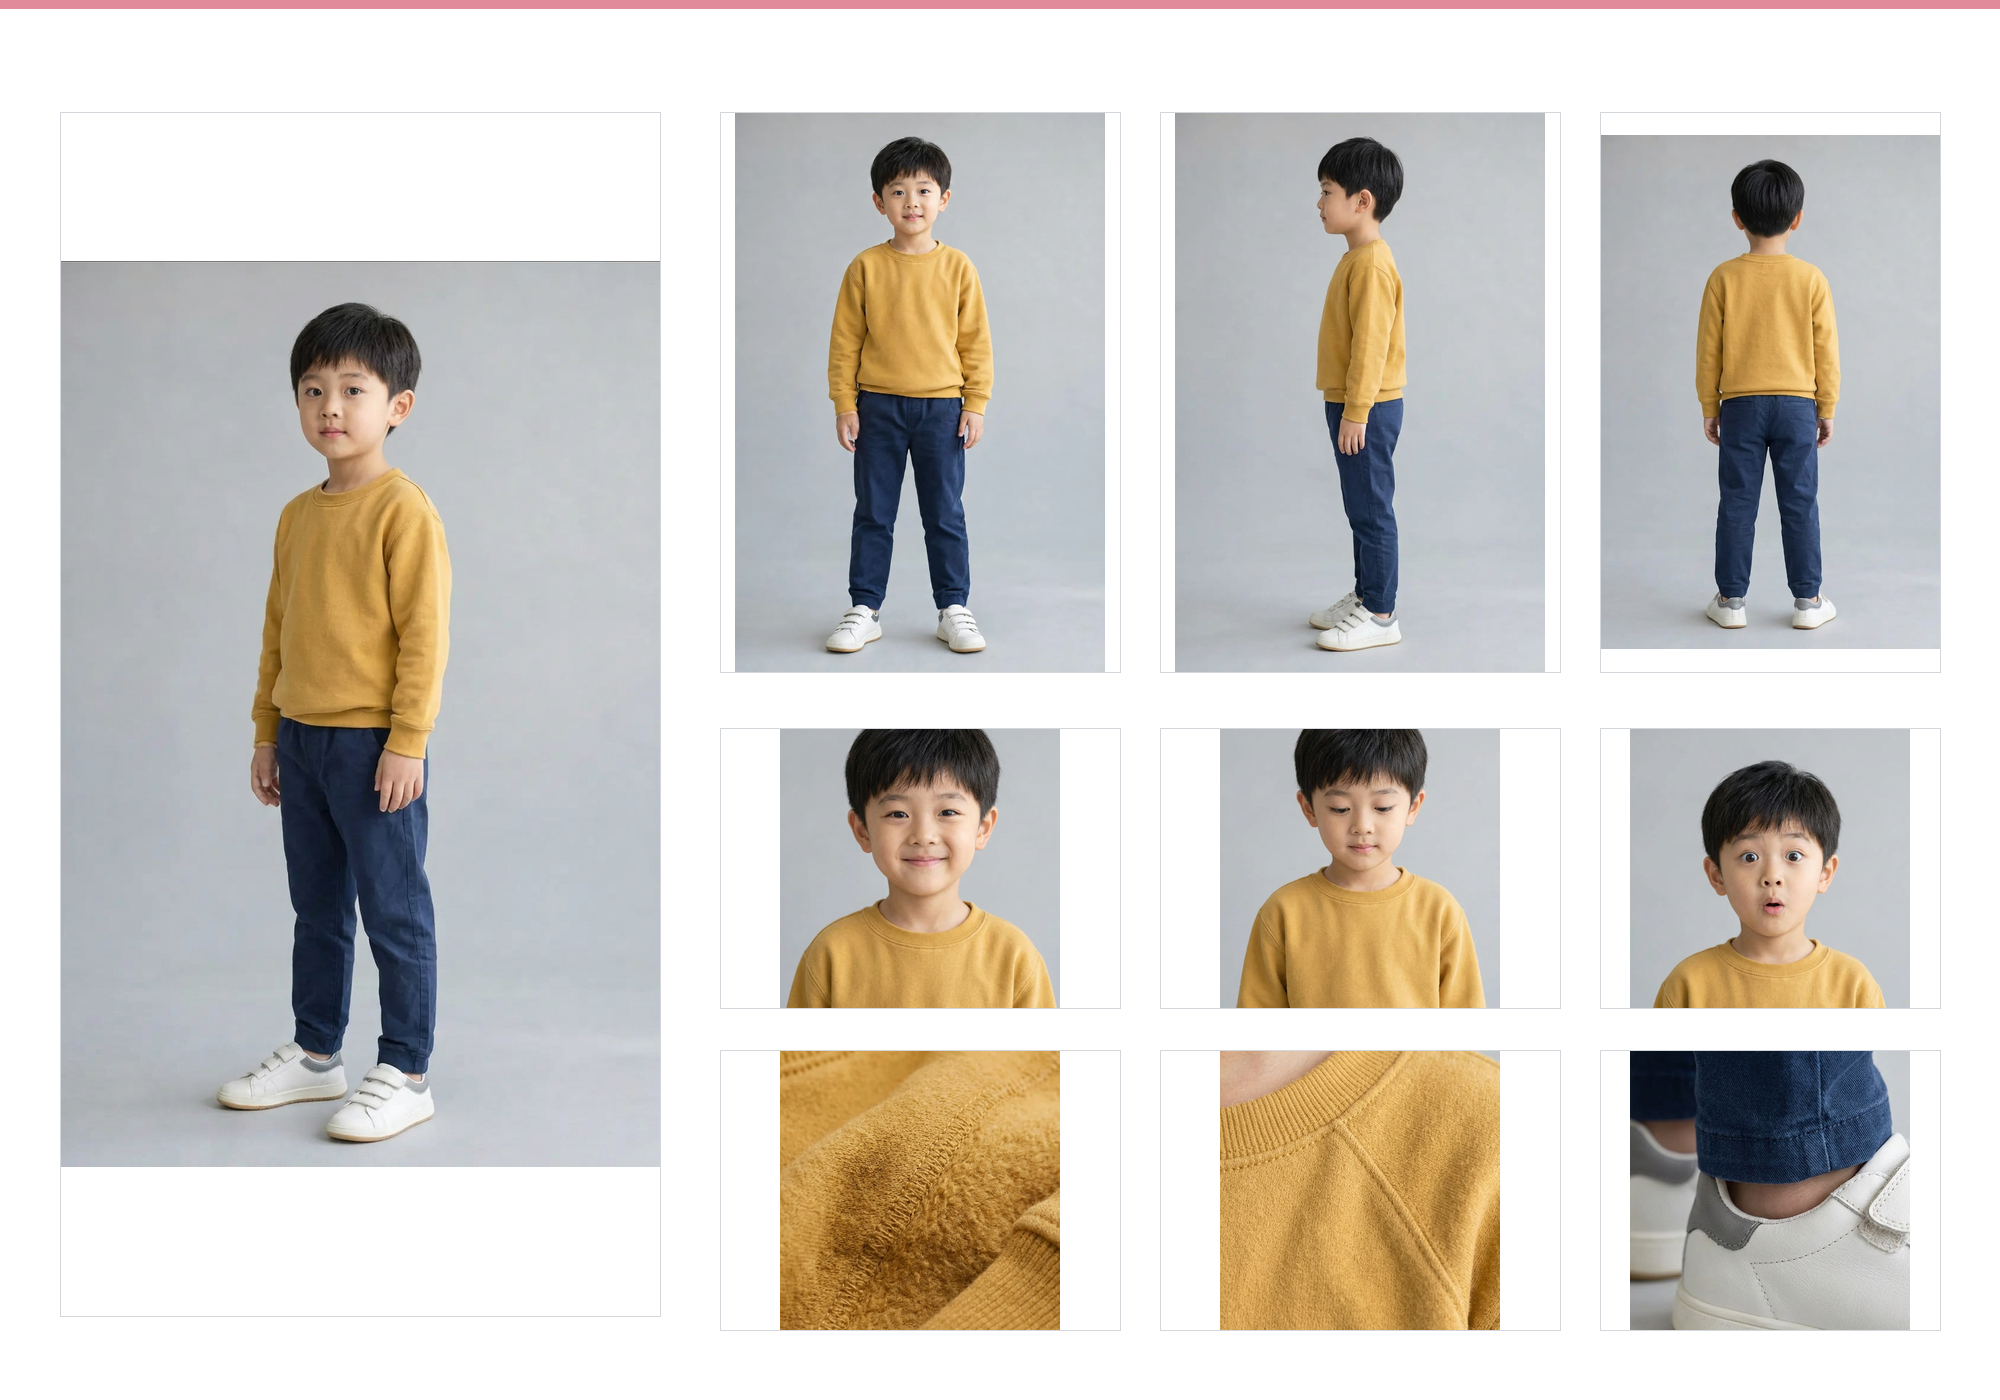
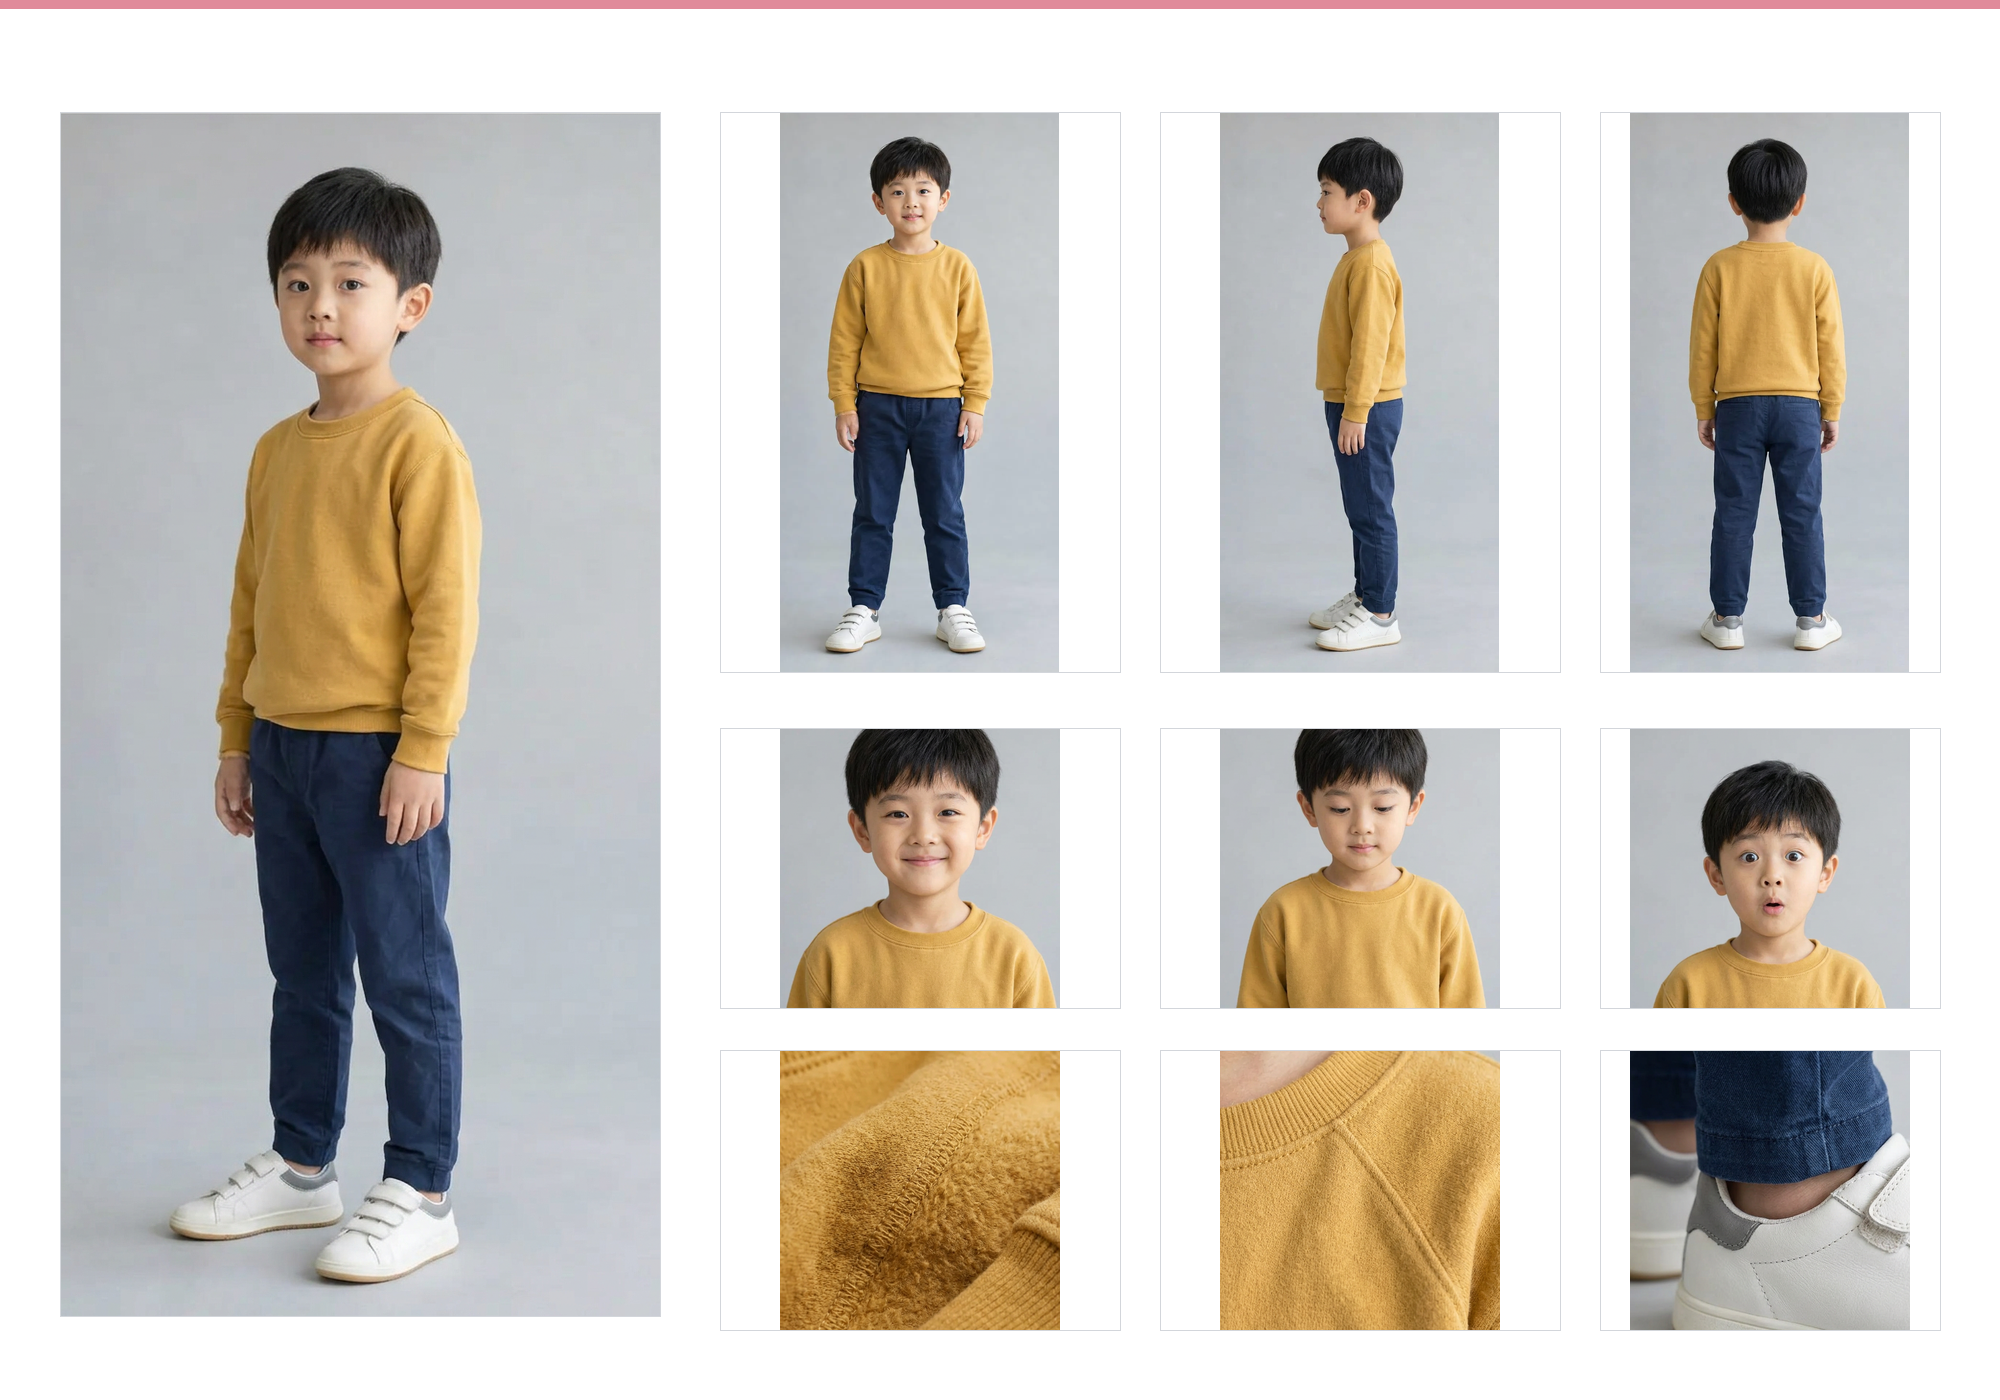
feat(multiview): 十四格·全图鉴整卡，补齐蹙眉表情与眼部微距素材

diff --git a/outputs/multiview/build_cards.py b/outputs/multiview/build_cards.py
@@ -52,6 +52,20 @@ def _trim_dark_border(image: Image.Image, max_px: int = 10, threshold: float = 4
     return image
 
 
+def crop_sides_to(image: Image.Image, aspect: float, min_keep: float = 0.6) -> Image.Image:
+    """只裁两侧背景、绝不动上下：素材比画格更“高”时，用它把两侧多余背景裁掉，
+    这样全身和头像在画格里能占满，同时头顶鞋底依然完整。"""
+    width, height = image.size
+    current = width / height
+    if aspect >= current:
+        return image
+    target_w = int(round(height * aspect))
+    if target_w < width * min_keep:  # 裁太多会切到人，宁可有留白
+        return image
+    left = (width - target_w) // 2
+    return image.crop((left, 0, left + target_w, height))
+
+
 def load(name: str) -> Image.Image:
     return _trim_dark_border(Image.open(VIEWS / name).convert("RGB"))
 
@@ -67,6 +81,8 @@ thinking = load("07_expression_thinking.png")
 surprised = load("08_expression_surprised.png")
 shoes = load("09_detail_shoes.png")
 collar = load("10_detail_collar.png")
+serious = load("11_expression_serious.png")
+eye = load("12_detail_eye.png")
 
 CELL = 512
 
@@ -89,39 +105,47 @@ def grid(rows: int, cols: int, slots: dict[tuple[int, int], Image.Image], fallba
     return sheet
 
 
-# 表情：2×3 → 下标 1=微笑、4=惊讶、5=沉思（其余格用平静头像占位，模板里不取用）
+# 表情素材表 2×3（行优先）：下标 1=微笑、2=蹙眉清冷、4=惊讶、5=沉思
 expression_sheet = grid(
     2,
     3,
-    {(0, 1): smile, (1, 1): surprised, (1, 2): thinking},
+    {(0, 1): smile, (0, 2): serious, (1, 1): surprised, (1, 2): thinking},
     fallback=headshot,
 )
 
-# 细节：3×3 → 下标 2=面料、4=鞋履、5=领口；细节格是横向画格，先裁成横构图再铺
-detail_sheet = grid(
-    3,
-    3,
-    {(0, 2): fabric, (1, 1): shoes, (1, 2): collar},
-    fallback=fabric,
-    crop=(CELL * 3 // 2, CELL),
-)
+# 细节素材表 3×3（行优先）：下标 0=眼部、2=面料、4=鞋履、5=领口
+DETAIL_SLOTS = {(0, 0): eye, (0, 2): fabric, (1, 1): shoes, (1, 2): collar}
+# 十格·设定集的细节格是横向画格，先裁横构图；十四格·全图鉴的细节格偏竖，用方图
+detail_sheet_wide = grid(3, 3, DETAIL_SLOTS, fallback=fabric, crop=(CELL * 3 // 2, CELL))
+detail_sheet_square = grid(3, 3, DETAIL_SLOTS, fallback=fabric)
+
+# 每个卡版画格比例不同：素材比画格“更高”时先裁掉两侧背景，画格里就不会大片留白。
+# 键是 (全身/主角, 头像) 的目标比例；None 表示不裁。
+ASPECT_PREP = {
+    "xianxia_ref": (0.125 * 2200 / (0.42 * 1300), 0.15 * 2200 / (0.43 * 1300)),
+    "school_ref": (0.3 * 2000 / (0.86 * 1400), None),  # 这一版只有主立绘格偏窄
+}
 
 TARGETS = [
-    ("school_ref", "card_school_ref.png", "十格·设定集"),
-    ("head_body_6", "card_head_body_6.png", "六格·三视图"),
-    ("fiveref", "card_fiveref.png", "五格·正反"),
+    ("xianxia_ref", "card_xianxia_ref.png", "十四格·全图鉴", "square"),
+    ("school_ref", "card_school_ref.png", "十格·设定集", "wide"),
+    ("head_body_6", "card_head_body_6.png", "六格·三视图", "wide"),
+    ("fiveref", "card_fiveref.png", "五格·正反", "wide"),
 ]
 
 reports: dict[str, dict] = {}
-for template_id, filename, label in TARGETS:
+for template_id, filename, label, detail_mode in TARGETS:
+    detail_sheet = detail_sheet_wide if detail_mode == "wide" else detail_sheet_square
+    body_aspect, head_aspect = ASPECT_PREP.get(template_id, (None, None))
+    prep = (lambda img, a: crop_sides_to(img, a) if a else img)
     template = copy.deepcopy(get_template(template_id))
     canvas, _assets, report = compose_role_card(
-        full_front=front,
-        full_profile=side,
-        full_back=back,
-        action_a=three_quarter,  # school_ref 的主立绘也走 action_a，用斜侧全身当主视觉
-        action_b=three_quarter,
-        headshot=headshot,
+        full_front=prep(front, body_aspect),
+        full_profile=prep(side, body_aspect),
+        full_back=prep(back, body_aspect),
+        action_a=prep(three_quarter, body_aspect),  # school_ref 的主立绘也走 action_a，用斜侧全身当主视觉
+        action_b=prep(three_quarter, body_aspect),
+        headshot=prep(headshot, head_aspect),
         expression_sheet=expression_sheet,
         detail_sheet=detail_sheet,
         template=template,

diff --git a/outputs/multiview/README.md b/outputs/multiview/README.md
@@ -2,43 +2,46 @@
 
 用本仓库的卡版数据（`templates.py`）+ 资产排版器（`asset_composer.py`）跑了一遍
 “一张参考图 → 多视图 → 一张角色卡”的流水线。模型侧的出图由 Arena 的图像模型完成
-（仓库原本是交给 ComfyUI 里的 Qwen-Image 2.1 出图，流程、画格比例、取用规则完全一致）。
+（仓库原本是交给 ComfyUI 里的 Qwen-Image 2.1 出图，流程、画格比例、取用规则一致）。
 
-## 主交付：`card_school_ref.png`（十格·设定集，2000×1400）
+## 主交付：`card_xianxia_ref.png`（十四格·全图鉴，2200×1300）
 
-一张卡装完：左侧主立绘，右侧上排三视图全身、中排三表情、下排三细节。
+左侧四张全身 + 三张头像，右侧四表情 + 三细节 + 一条面料。
 
-| 画格 | 内容 | 素材 |
-|---|---|---|
-| 1 主立绘 | 四分之三斜侧全身 | `views/03_body_three_quarter.png` |
-| 2 正面全身 | 正面站姿 | `views/00_reference_front.png` |
-| 3 侧面全身 | 严格 90° 左侧面 | `views/01_body_side.png` |
-| 4 背面全身 | 严格 180° 背面 | `views/02_body_back.png` |
-| 5 甜美微笑 | 露齿笑表情 | `views/05_expression_smile.png` |
-| 6 低头沉思 | 垂眼看下方 | `views/07_expression_thinking.png` |
-| 7 惊讶张嘴 | 瞪眼张嘴 | `views/08_expression_surprised.png` |
-| 8 服装细节 | 卫衣面料微距 | `views/06_detail_fabric.png` |
-| 9 配饰细节 | 领口罗纹与肩缝（角色无配饰，用领口细节位） | `views/10_detail_collar.png` |
-| 10 鞋履细节 | 小白鞋与裤脚 | `views/09_detail_shoes.png` |
+| # | 画格 | 内容 | 素材 |
+|---|---|---|---|
+| 1 | 正面全身 | 正面站姿 | `views/00_reference_front.png` |
+| 2 | 右侧面全身 | 镜像侧面（与第 4 格左右相反） | `views/01_body_side.png` 水平翻转 |
+| 3 | 背面全身 | 严格 180° 背面 | `views/02_body_back.png` |
+| 4 | 左侧面全身 | 严格 90° 侧面 | `views/01_body_side.png` |
+| 5 | 正面头像 | 正面头肩 | `views/04_head_portrait.png` |
+| 6 | 侧面头像 | 侧脸轮廓 | 由第 4 格素材自动裁头部 |
+| 7 | 斜侧头像 | 四分之三斜侧 | 由 `views/03_body_three_quarter.png` 自动裁头部 |
+| 8 | 温柔微笑 | 闭唇微笑 | `views/05_expression_smile.png` |
+| 9 | 惊讶张嘴 | 瞪眼张嘴 | `views/08_expression_surprised.png` |
+| 10 | 闭眼沉思 | 垂眼看下方 | `views/07_expression_thinking.png` |
+| 11 | 蹙眉清冷 | 蹙眉冷峻直视 | `views/11_expression_serious.png` |
+| 12 | 眼部细节 | 单眼微距（虹膜纹理） | `views/12_detail_eye.png` |
+| 13 | 配饰细节 | 领口罗纹与肩缝（角色无配饰，占这一格） | `views/10_detail_collar.png` |
+| 14 | 面料细节 | 卫衣面料横向微距 | `views/06_detail_fabric.png` |
 
 ## 其他卡版（同一批素材，换排版）
 
-- `card_head_body_6.png` — 六格·三视图（1920×1280）：上排正面/侧面/后脑头肩，下排正面/侧面/背面全身
-- `card_fiveref.png` — 五格·正反（1920×1200）：上排正面/四分之三头肩，下排正面/侧面/背面全身
+- `card_school_ref.png` — 十格·设定集（2000×1400）：左主立绘 + 三视图全身 + 三表情 + 三细节
+- `card_head_body_6.png` — 六格·三视图（1920×1280）：上排正面/侧面/后脑头肩，下排三张全身
+- `card_fiveref.png` — 五格·正反（1920×1200）：上排正面/四分之三头肩，下排三张全身
 
 ## 视图素材（`views/`）
 
 | 文件 | 内容 |
 |---|---|
 | `00_reference_front.png` | 原始参考图（正面全身） |
-| `01_body_side.png` | 严格 90° 左侧面全身（人物朝画面右侧） |
+| `01_body_side.png` | 严格 90° 侧面全身 |
 | `02_body_back.png` | 严格 180° 背面全身 |
 | `03_body_three_quarter.png` | 四分之三斜侧全身 |
 | `04_head_portrait.png` | 正面头肩肖像 |
-| `05_expression_smile.png` | 微笑表情 |
-| `07_expression_thinking.png` | 低头沉思 |
-| `08_expression_surprised.png` | 惊讶 |
-| `06_detail_fabric.png` / `10_detail_collar.png` / `09_detail_shoes.png` | 面料 / 领口 / 鞋履 细节 |
+| `05_expression_smile.png` / `07_expression_thinking.png` / `08_expression_surprised.png` / `11_expression_serious.png` | 微笑 / 沉思 / 惊讶 / 蹙眉 |
+| `06_detail_fabric.png` / `09_detail_shoes.png` / `10_detail_collar.png` / `12_detail_eye.png` | 面料 / 鞋履 / 领口 / 眼部 微距 |
 
 生成时统一锁定的角色特征：约 5 岁东亚男孩、短黑发齐刘海、芥末黄圆领卫衣、
 藏青休闲裤、白色魔术贴小白鞋、浅灰无缝影棚背景、柔和正面棚拍光；
@@ -49,13 +52,15 @@
 - 画格坐标、数量、比例全部来自 `templates.py`，取用规则来自 `asset_composer.compose_role_card()`；
   `compose_report.json` 是“画格 ← 素材”的映射报告。
 - `fit_mode="完整显示"`（contain），保证全身从头顶到鞋底都不被裁切。
-- 表情/细节用 `crop_equal_grid` 的行优先下标贴进 2×3 / 3×3 素材表：
-  表情下标 1=微笑、4=惊讶、5=沉思；细节下标 2=面料、4=鞋履、5=领口。
+- 素材比画格“更高”时，先只裁两侧背景（`crop_sides_to`），让全身在竖画格里占满，头顶和鞋底不动。
+- 表情/细节按 `crop_equal_grid` 的行优先下标贴进 2×3 / 3×3 素材表：
+  表情下标 1=微笑、2=蹙眉、4=惊讶、5=沉思；细节下标 0=眼部、2=面料、4=鞋履、5=领口。
+  十格卡的细节格是横向画格，另做一份横构图素材表。
 
 ## 复现
 
 ```bash
-pip install pillow numpy
+pip3 install --break-system-packages pillow numpy
 python3 outputs/multiview/build_cards.py
 ```
 
